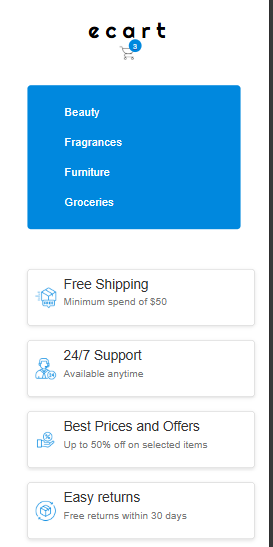
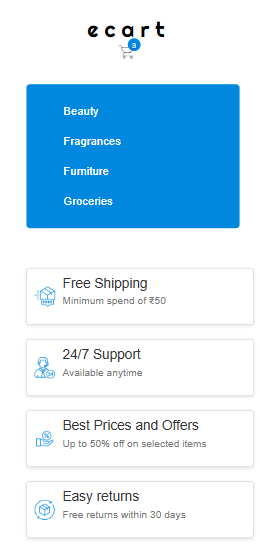
Added checkout form, other data in cart page for the product in task 10

diff --git a/z-task-10/UI/pages/form.html b/z-task-10/UI/pages/form.html
@@ -1,0 +1,62 @@
+<!DOCTYPE html>
+<html lang="en">
+    <head>
+        <meta charset="UTF-8">
+        <meta name="viewport" content="width=device-width, initial-scale=1.0">
+        <title>Checkout form</title>
+        <link rel="stylesheet" href="form.css">
+    </head>
+    <body>
+
+        <div class="form-container">
+            <h1>Checkout Form</h1>
+            <form id="checkout-form">
+                <div>
+                    <label for="name">Name:</label>
+                    <input type="text" id="name" name="name"
+                        placeholder="Enter your name" required>
+                </div>
+
+                <div>
+                    <label for="email">Email:</label>
+                    <input type="email" id="email" name="email"
+                        placeholder="Enter your email" required>
+                </div>
+
+                <div>
+                    <label for="address">Address:</label>
+                    <input type="text" id="address" name="address"
+                        placeholder="Enter your address" required>
+                </div>
+
+                <div>
+                    <label for="city">City:</label>
+                    <input type="text" id="city" name="city"
+                        placeholder="Enter your city" required>
+                </div>
+
+                <div>
+                    <label for="state">State:</label>
+                    <input type="text" id="state" name="state"
+                        placeholder="Enter your state" required>
+                </div>
+
+                <div>
+                    <label for="zip">Zip Code:</label>
+                    <input type="text" id="zip" name="zip"
+                        placeholder="Enter your code" required>
+                </div>
+
+                <div class="payment-method">
+                    <label for="payment-method">Payment Method:</label>
+                    <select id="payment-method" name="payment-method" required>
+                        <option value="credit-card">Credit Card</option>
+                        <option value="paypal">PayPal</option>
+                        <option value="bank-transfer">Bank Transfer</option>
+                    </select>
+                </div>
+                <button type="submit">Submit</button>
+            </form>
+        </div>
+    </body>
+</html>

diff --git a/z-task-10/UI/styles/cart.css b/z-task-10/UI/styles/cart.css
@@ -58,6 +58,7 @@ h1 {
     margin: 5px 0;
     color: #555;
 }
+
 .quantity-container {
     margin-top: 10px;
     display: flex;
@@ -91,7 +92,7 @@ h1 {
     color: #333;
 }
 
-#stock{
+#stock {
     font-size: 13px;
 }
 
@@ -102,7 +103,7 @@ h1 {
     font-size: 18px;
     color: #333;
     font-weight: bolder;
-    margin-top: -40px;
+    margin-top: -90px;
 }
 
 .price {
@@ -114,7 +115,7 @@ h1 {
 .return-policy {
     font-size: 10px;
     text-align: center;
-    color: #555;
+    color: #0009b8 !important;
     margin-top: 5px;
 }
 
@@ -151,6 +152,38 @@ button.remove-btn:hover {
     background-color: #d32f2f;
 }
 
+.tags-container{
+    display: flex;
+    flex-wrap: wrap;
+    margin-top: 10px;
+}
+
+.tag {
+    display: inline-block;
+    background-color: #e0f0ff;
+    color: #007bff;
+    border : 1px solid #007bff30;
+    padding: 4px;
+    border-radius: 5px;
+    font-size: 10px;
+    margin-right: 5px;
+    margin-bottom: 5px;
+    line-height: 1.5;
+}
+
+.warrant-info{
+    font-size: 10px;
+    color: #474747 !important;
+    margin-top: 5px;
+}
+
+.shipping-info{
+    font-size: 10px;
+    color: #BE185D
+    !important;
+    margin-top: 5px;
+}
+
 #checkout-section {
     width: 30%;
     margin-left: 20px;
@@ -160,7 +193,6 @@ button.remove-btn:hover {
     height: 50%;
     overflow-y: auto;
 }
-
 
 #checkout-section h3 {
     margin-bottom: 20px;
@@ -188,7 +220,6 @@ button.remove-btn:hover {
     padding: 10px 20px;
     border-radius: 50px;
     cursor: pointer;
-
     width: 100%;
     font-size: 15px;
     transition: background-color 0.3s ease;
@@ -196,6 +227,11 @@ button.remove-btn:hover {
 
 .proceed-btn:hover {
     background-color: #e68900;
+}
+
+.proceed-btn a {
+    text-decoration: none;
+    color: black;
 }
 
 @media (max-width: 768px) {
@@ -212,16 +248,15 @@ button.remove-btn:hover {
     #checkout-section {
         width: 100%;
     }
-    
-    .price-span{
+
+    .price-span {
         margin-top: 20px !important;
     }
 
-    .price-container{
+    .price-container {
         margin-top: 20%;
         flex-direction: row;
         justify-content: space-around;
         align-items: center;
     }
 }
-

diff --git a/z-task-10/UI/styles/form.css b/z-task-10/UI/styles/form.css
@@ -1,0 +1,94 @@
+body {
+    font-family: Arial, sans-serif;
+    background-color: #eff9ff;
+    margin: 0;
+    padding: 0;
+}
+
+.form-container {
+    max-width: 900px;
+    margin: 50px auto;
+    padding: 20px;
+    background-color: #fff;
+    border-radius: 5px;
+    box-shadow: 0 2px 10px rgba(0, 0, 0, 0.1);
+
+}
+
+#checkout-form {
+    display: grid;
+    grid-template-columns: repeat(3, 3fr);
+    gap: 20px;
+    margin: 0 auto;
+    padding: 20px;
+}
+
+h1 {
+    text-align: center;
+    margin-bottom: 20px;
+}
+
+label {
+    display: block;
+    margin-bottom: 5px;
+}
+
+input[type="text"],
+input[type="email"] {
+    width: 95%;
+    padding: 10px;
+    margin-bottom: 15px;
+    border: 1px solid #ccc;
+    border-radius: 4px;
+}
+
+.payment-method {
+    grid-column: span 3;
+    margin-bottom: 15px;
+}
+
+.payment-method select {
+    width: 100%;
+    padding: 10px;
+    border: 1px solid #ccc;
+    border-radius: 4px;
+}
+
+button {
+    width: 100%;
+    padding: 10px;
+    background-color: #0056b3;
+    color: white;
+    border: none;
+    border-radius: 4px;
+    cursor: pointer;
+}
+
+button:hover {
+    background-color: #003d7e;
+}
+
+#confirmation-message {
+    text-align: center;
+    margin-top: 20px;
+    display: none;
+}
+
+#confirmation-message p {
+    color: #555;
+}
+
+@media (max-width: 768px) {
+    .form-container {
+        width: 90%;
+        margin: 20px auto;
+    }
+
+    #checkout-form {
+        display: flex;
+        flex-direction: column;
+        gap: 10px;
+    }
+}
+
+

diff --git a/z-task-10/JS/cart.js b/z-task-10/JS/cart.js
@@ -23,7 +23,6 @@ const displayCartProducts = () => {
         <div class="product-info">
             <h3>${item.title}</h3>
             <p id="stock">${item.availabilityStatus}</p>
-            
             <div class="quantity-container">
             <div class="border-box">
                 <button class="quantity-btn-decrease">-</button>
@@ -32,14 +31,22 @@ const displayCartProducts = () => {
                 </div>
                  <button class="remove-btn" data-id="${item.id}">Remove</button>
             </div>
+            <div class="tags-container">
+           <p>
+          ${item.tags
+            .map((i) => `<span class="tag">${i}</span>`)
+            .join(" ")} | <span class="warrant-info">${
+      item.warrantyInformation
+    }</span> | <span class="shipping-info">${item.shippingInformation}</span>
+        </p>
+        </div>
             <div class="price-container">
             <button class="discount">${item.discountPercentage}% off</button>
             <p class="price">₹${(item.price * item.quantity).toFixed(2)}</p>
             <p class="return-policy">${item.returnPolicy}</p>
       
             </div>
-           
-           
+    
         </div>
         `;
 

diff --git a/z-task-10/UI/pages/cart.html b/z-task-10/UI/pages/cart.html
@@ -1,30 +1,26 @@
 <!DOCTYPE html>
 <html lang="en">
-<head>
-    <meta charset="UTF-8">
-    <meta name="viewport" content="width=device-width, initial-scale=1.0">
+  <head>
+    <meta charset="UTF-8" />
+    <meta name="viewport" content="width=device-width, initial-scale=1.0" />
     <title>Cart Products</title>
-    <link rel="stylesheet" href="../styles/cart.css">
-</head>
-<body>
-    
-
+    <link rel="stylesheet" href="../styles/cart.css" />
+  </head>
+  <body>
     <h1>Cart Products</h1>
 
     <div id="cart-container">
-      <div id="cart-products">
-      </div>
-    
+      <div id="cart-products"></div>
+
       <div id="checkout-section">
         <h3>Checkout</h3>
         <p id="delivery-info">Free Delivery</p>
         <div id="cart-total">Total: ₹0.00</div>
-        <button class="proceed-btn">Proceed to Buy</button>
+        <a href="./form.html">
+          <button class="proceed-btn">Proceed to Buy</button>
+        </a>
       </div>
     </div>
-    
-
     <script src="../../JS/cart.js"></script>
-
-</body>
+  </body>
 </html>

diff --git a/z-task-10/UI/index.html b/z-task-10/UI/index.html
@@ -46,7 +46,7 @@
                                 alt="Free Shipping" class="sidebar-icon">
                             <div class="text-content">
                                 <span>Free Shipping</span>
-                                <p class="small-text">Minimum spend of $50</p>
+                                <p class="small-text">Minimum spend of ₹50</p>
                             </div>
                         </li>
                         <li>
